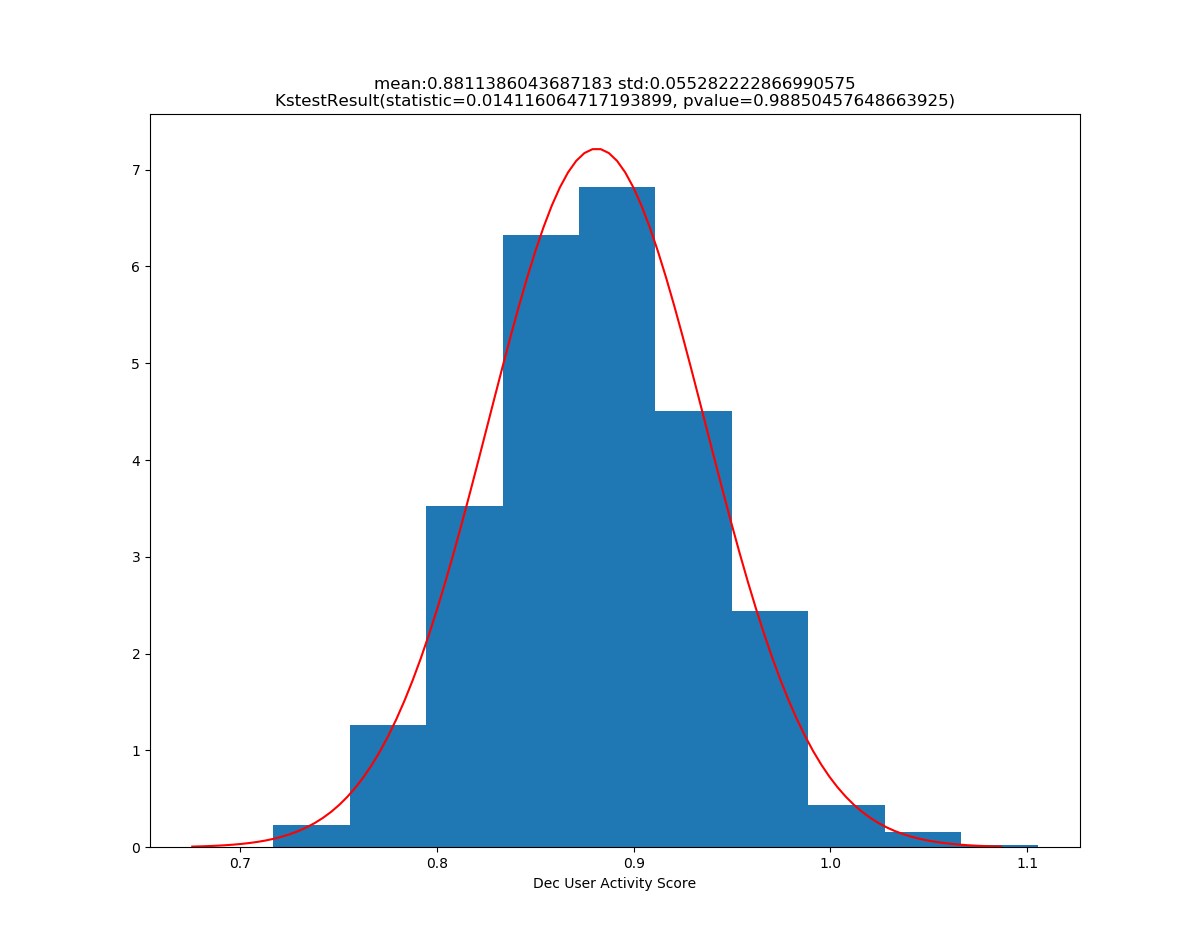
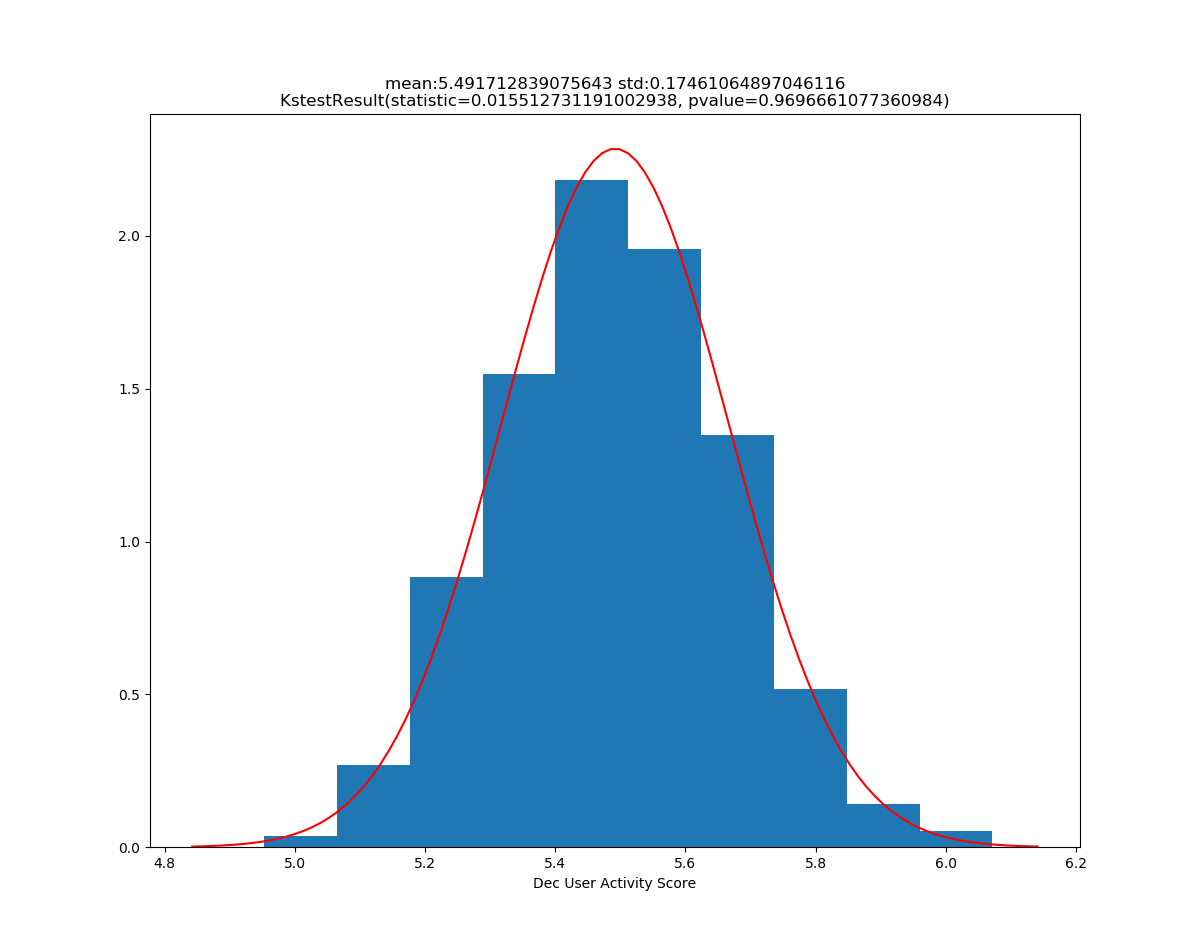
update ttest

diff --git a/src/db_basic_data_stats.py b/src/db_basic_data_stats.py
@@ -503,7 +503,8 @@ def dec_vs_other_months(hypothesis_df):
     #hypothesis_df['estimated_created_date'] = hypothesis_df['estimated_created_date'].astype('datetime64[ns]')
     hypothesis_df_Dec = hypothesis_df.loc[hypothesis_df['estimated_created_date'].dt.month == 12]
     hypothesis_df_not_Dec = hypothesis_df.loc[hypothesis_df['estimated_created_date'].dt.month < 12]
-
+    dec_active = hypothesis_df_not_Dec.loc[hypothesis_df_not_Dec['user_active_yn']==1]
+    other_active = hypothesis_df_not_Dec.loc[hypothesis_df_not_Dec['user_active_yn']==1]
     # plt.hist(hypothesis_df_Dec['user_activity_score'], color='cyan', label='Dec Active Scores')
     # plt.hist(hypothesis_df_not_Dec['user_activity_score'],alpha=0.7, color='pink', label='Year Active Scores')
     # plt.ylabel('number of users')
@@ -518,17 +519,17 @@ def dec_vs_other_months(hypothesis_df):
     # plt.legend()
     # plt.show()
 
-    bootstrap_ci(hypothesis_df_Dec['user_activity_score'], 'Dec User Activity Score')
-    bootstrap_ci(hypothesis_df_not_Dec['user_activity_score'], 'Not Dec User Activity Score')
+    bootstrap_ci(dec_active['user_activity_score'], 'Dec User Activity Score')
+    bootstrap_ci(other_active['user_activity_score'], 'Not Dec User Activity Score')
     bootstrap_ci(hypothesis_df_Dec['user_active_yn'], 'Dec User Active YN')
     bootstrap_ci(hypothesis_df_not_Dec['user_active_yn'], 'Not Dec User Active YN')
 
     #dec sample for H on user_active_score
     print("Running ttest on user_active score for Dec vs all other months")
-    print(f"Dec Average: {hypothesis_df_Dec['user_activity_score'].mean()}")
-    print(f'Other Average: {hypothesis_df_not_Dec["user_activity_score"].mean()}')
-    hypothesis_df_Dec_sample = hypothesis_df_Dec.sample(len(hypothesis_df_not_Dec.index))
-    user_active_score_ttest = stats.ttest_ind(hypothesis_df_Dec_sample['user_activity_score'], hypothesis_df_not_Dec['user_activity_score'])
+    print(f"Dec Average: {dec_active['user_activity_score'].mean()}")
+    print(f'Other Average: {other_active["user_activity_score"].mean()}')
+    hypothesis_df_Dec_sample = dec_active.sample(len(other_active.index))
+    user_active_score_ttest = stats.ttest_ind(hypothesis_df_Dec_sample['user_activity_score'], other_active['user_activity_score'])
     print(user_active_score_ttest)
     #Ttest_indResult(statistic=-5.9016620625301828, pvalue=4.0248341180765505e-09)
 
